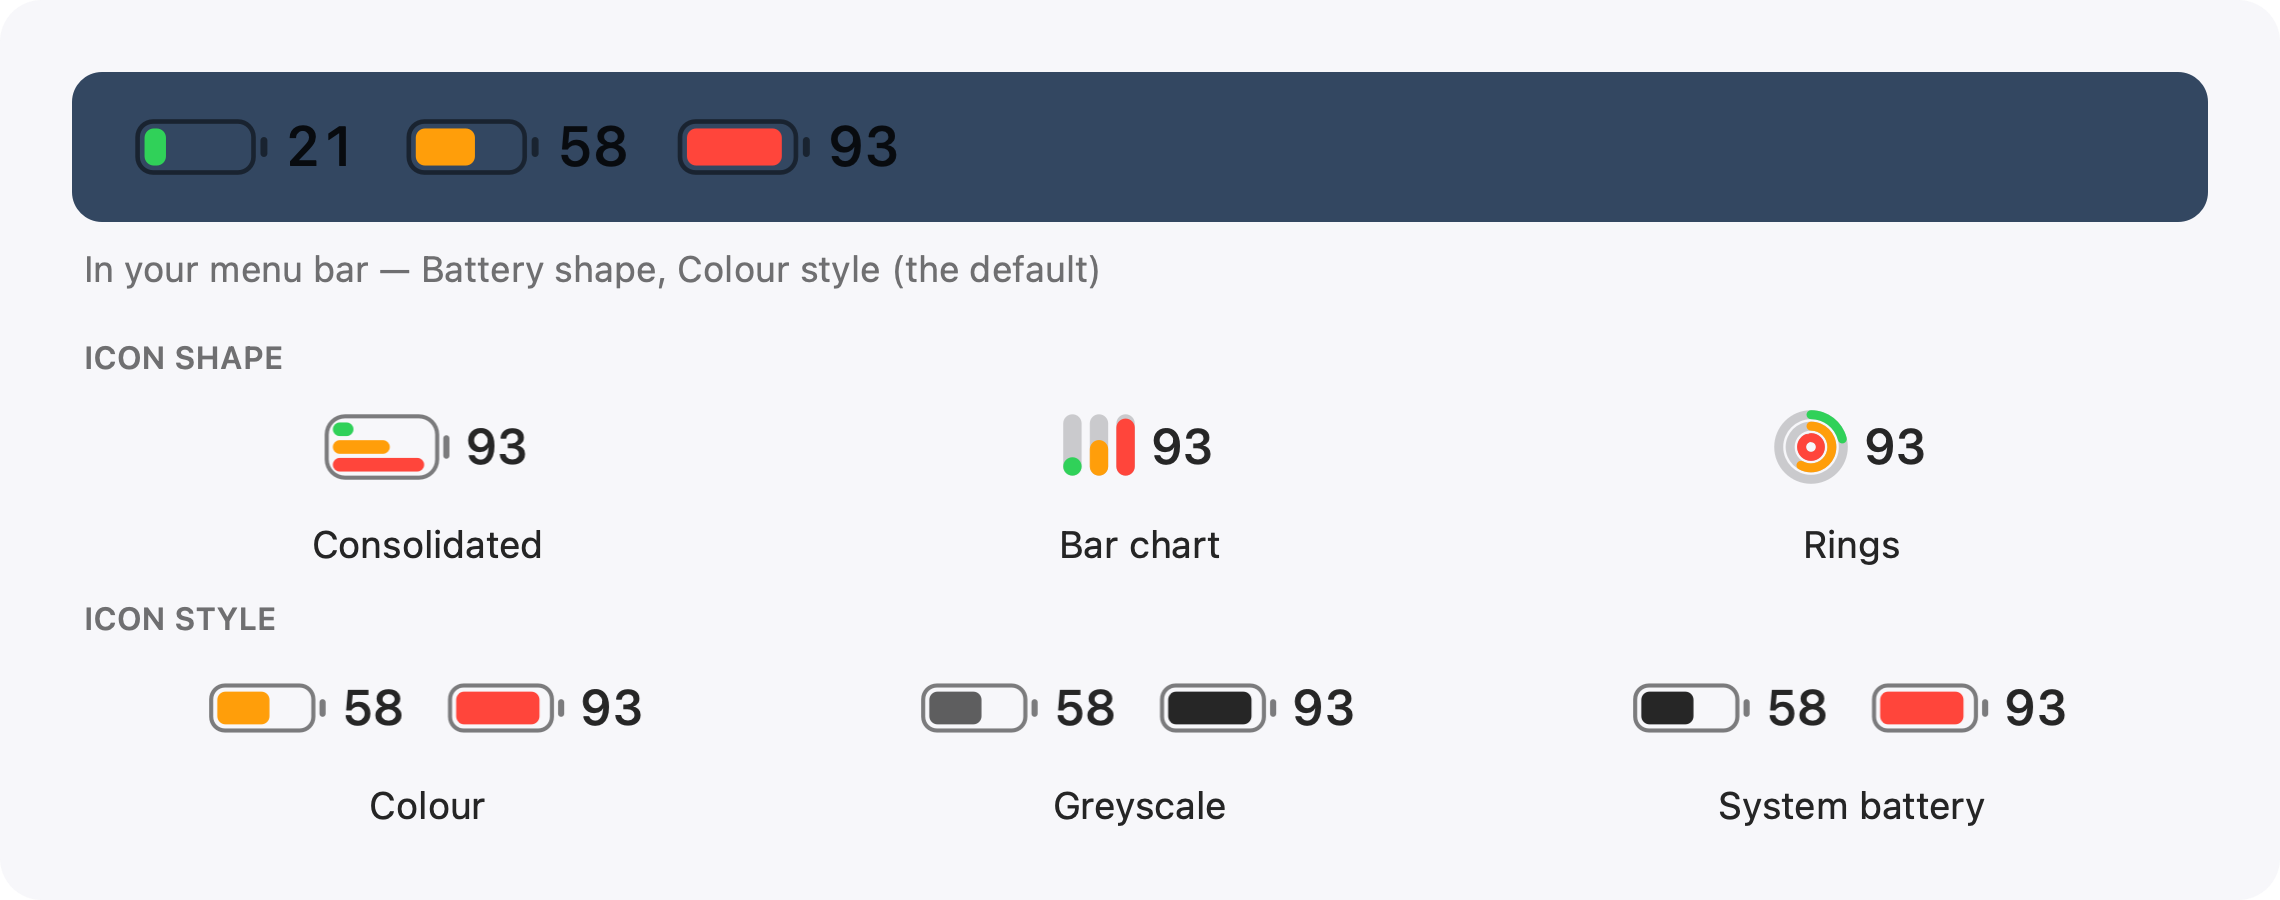
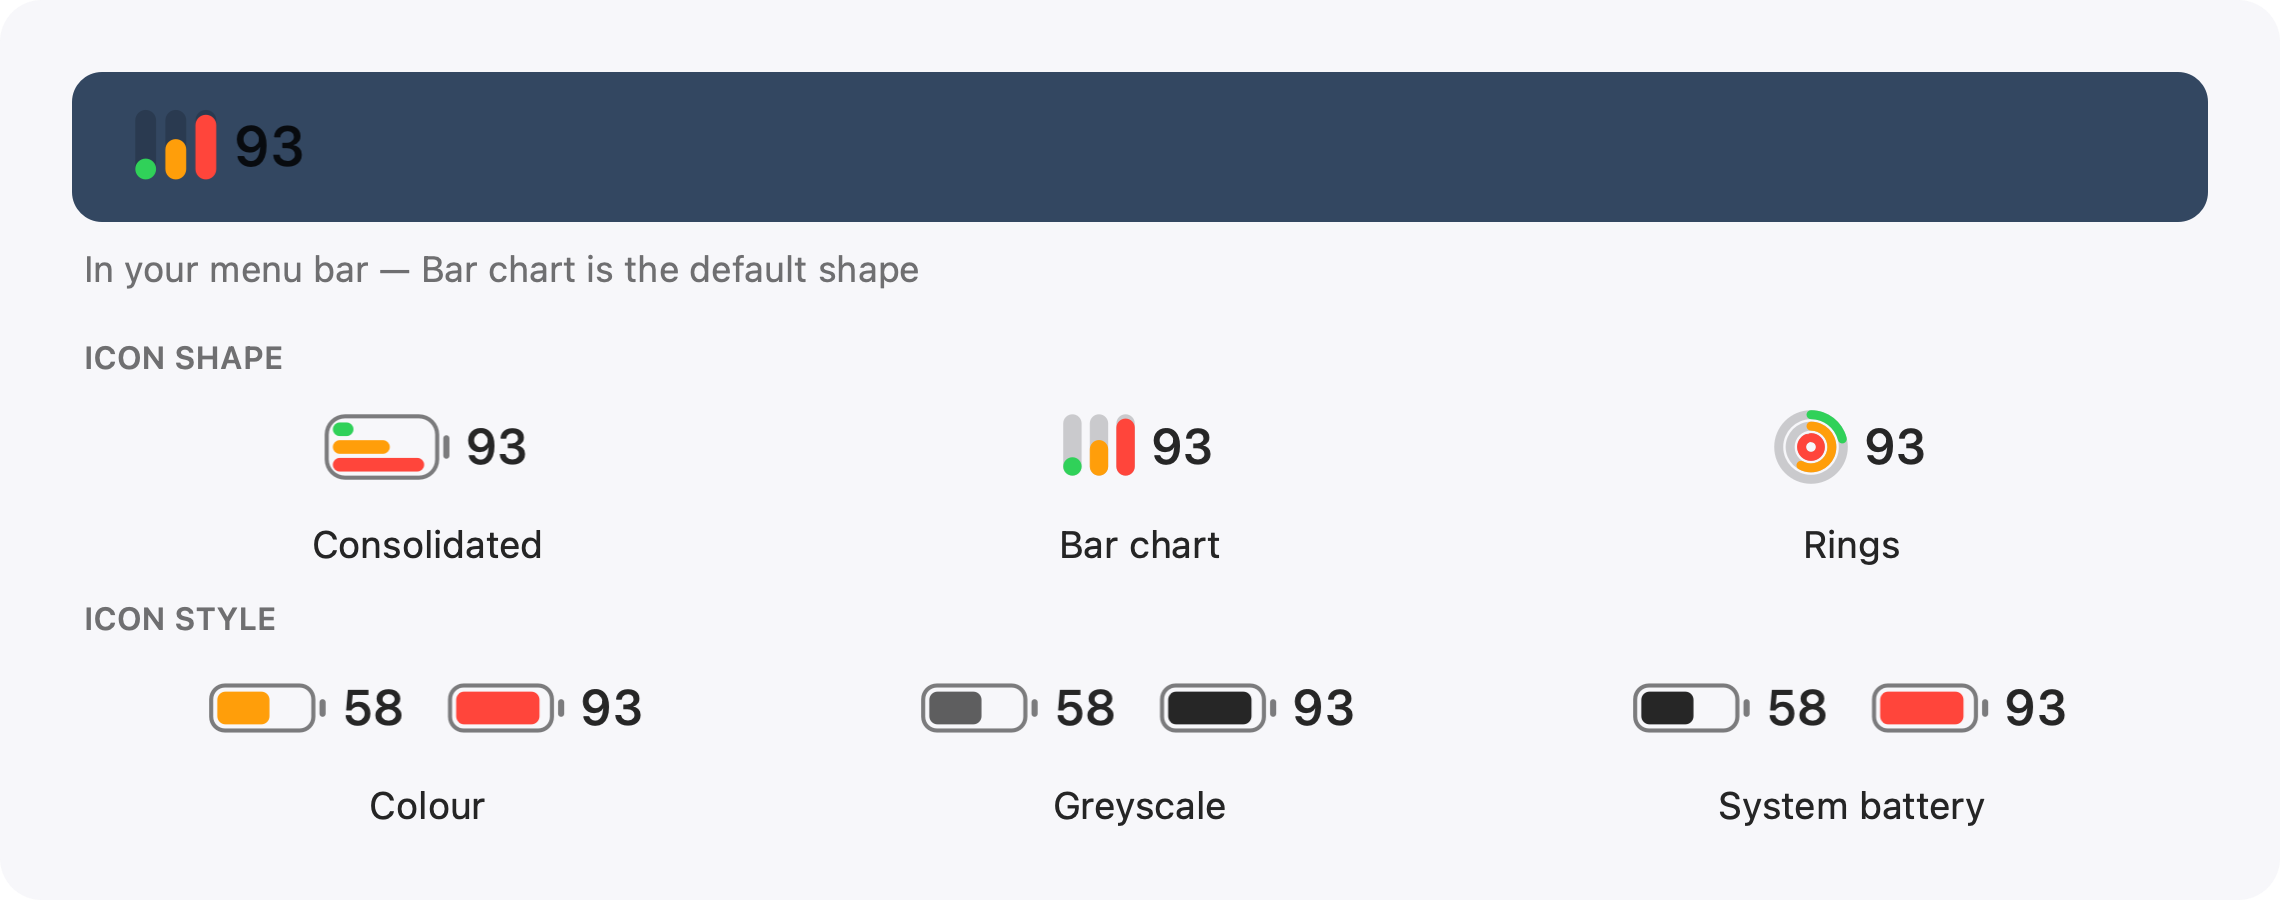
Default to bar chart + greyscale; add number-source picker; fix notification spam
- Default icon shape is now Bar chart and default style Greyscale (the most
  menu-bar-native look); an explicit prior choice is preserved
- New 'Number Shows' submenu picks which limit's percentage sits beside the
  single-glyph icons — highest (default) or a specific gauge; a picked model
  that later disappears falls back to highest
- Notifications: persist the alerted-high state across launches so a limit
  pegged at 100% no longer re-alerts on every relaunch; toggling notifications
  off clears delivered banners
- Re-register the bundle with Launch Services so the app icon resolves
- Bump to 1.4; refresh the README options image and text

Changed region(s): [[0.0623, 0.1244, 0.4048, 0.2178], [0.1868, 0.28, 0.4982, 0.3111]]

diff --git a/UsageMonitor.swift b/UsageMonitor.swift
@@ -698,6 +698,7 @@ final class AppDelegate: NSObject, NSApplicationDelegate, NSMenuDelegate {
     func applicationDidFinishLaunching(_ notification: Notification) {
         NSApp.setActivationPolicy(.accessory)
         hasAdminKey = apiKeyConfigured()
+        notifiedHigh = Set(UserDefaults.standard.stringArray(forKey: "notifiedHigh") ?? [])
         statusMenu.delegate = self
         statusItem.menu = statusMenu
         onboarding.onReady = { [weak self] in self?.poll() }
@@ -775,6 +776,10 @@ final class AppDelegate: NSObject, NSApplicationDelegate, NSMenuDelegate {
         notifyEnabled.toggle()
         if notifyEnabled {
             UNUserNotificationCenter.current().requestAuthorization(options: [.alert, .sound]) { _, _ in }
+        } else {
+            // Turning off clears our stacked banners so they can all be dismissed at once.
+            UNUserNotificationCenter.current().removeAllDeliveredNotifications()
+            notifiedHigh.removeAll(); saveNotified()
         }
     }
 
@@ -792,9 +797,18 @@ final class AppDelegate: NSObject, NSApplicationDelegate, NSMenuDelegate {
         return crossed
     }
 
+    private func saveNotified() {
+        UserDefaults.standard.set(Array(notifiedHigh), forKey: "notifiedHigh")
+    }
+
     func checkNotifications(_ gauges: [Gauge]) {
-        guard notifyEnabled else { notifiedHigh.removeAll(); return }
-        for g in Self.newlyHigh(gauges, notified: &notifiedHigh) {
+        guard notifyEnabled else {
+            if !notifiedHigh.isEmpty { notifiedHigh.removeAll(); saveNotified() }
+            return
+        }
+        let crossed = Self.newlyHigh(gauges, notified: &notifiedHigh)
+        saveNotified()   // persist so a relaunch doesn't re-alert a still-maxed limit
+        for g in crossed {
             let c = UNMutableNotificationContent()
             c.title = "Claude usage — \(g.label)"
             c.body = "You're at \(Int(g.percent))% of your \(g.label.lowercased()) limit."
@@ -815,8 +829,27 @@ final class AppDelegate: NSObject, NSApplicationDelegate, NSMenuDelegate {
     }
 
     var iconShape: IconShape {
-        get { IconShape(rawValue: UserDefaults.standard.string(forKey: "iconShape") ?? "") ?? .battery }
+        get { IconShape(rawValue: UserDefaults.standard.string(forKey: "iconShape") ?? "") ?? .bars }
         set { UserDefaults.standard.set(newValue.rawValue, forKey: "iconShape") }
+    }
+
+    /// Which limit's percent the single-glyph shapes (bars/rings/consolidated)
+    /// show beside the icon. Empty = the highest of all limits.
+    var numberLabel: String {
+        get { UserDefaults.standard.string(forKey: "numberLabel") ?? "" }
+        set { UserDefaults.standard.set(newValue, forKey: "numberLabel") }
+    }
+
+    @objc func pickNumber(_ sender: NSMenuItem) {
+        numberLabel = (sender.representedObject as? String) ?? ""
+        render()
+    }
+
+    func displayPercent(_ gauges: [Gauge]) -> Double {
+        if !numberLabel.isEmpty, let g = gauges.first(where: { $0.label == numberLabel }) {
+            return g.percent
+        }
+        return gauges.map(\.percent).max() ?? 0
     }
 
     @objc func pickShape(_ sender: NSMenuItem) {
@@ -827,7 +860,7 @@ final class AppDelegate: NSObject, NSApplicationDelegate, NSMenuDelegate {
     }
 
     var iconStyle: IconStyle {
-        get { IconStyle(rawValue: UserDefaults.standard.string(forKey: "iconStyle") ?? "") ?? .colour }
+        get { IconStyle(rawValue: UserDefaults.standard.string(forKey: "iconStyle") ?? "") ?? .greyscale }
         set { UserDefaults.standard.set(newValue.rawValue, forKey: "iconStyle") }
     }
 
@@ -921,6 +954,24 @@ final class AppDelegate: NSObject, NSApplicationDelegate, NSMenuDelegate {
         }
         styleItem.submenu = styleMenu
         menu.addItem(styleItem)
+        // Which limit's percent the single-glyph shapes show as the number.
+        let numberItem = NSMenuItem(title: "Number Shows", action: nil, keyEquivalent: "")
+        let numberMenu = NSMenu()
+        let highest = NSMenuItem(title: "Highest", action: #selector(pickNumber(_:)), keyEquivalent: "")
+        highest.target = self
+        highest.representedObject = ""
+        highest.state = numberLabel.isEmpty ? .on : .off
+        numberMenu.addItem(highest)
+        if !gauges.isEmpty { numberMenu.addItem(.separator()) }
+        for g in gauges {
+            let i = NSMenuItem(title: g.label, action: #selector(pickNumber(_:)), keyEquivalent: "")
+            i.target = self
+            i.representedObject = g.label
+            i.state = g.label == numberLabel ? .on : .off
+            numberMenu.addItem(i)
+        }
+        numberItem.submenu = numberMenu
+        menu.addItem(numberItem)
         let notify = item("Notify near a limit (80%)", #selector(toggleNotify), "")
         notify.state = notifyEnabled ? .on : .off
         menu.addItem(notify)
@@ -1052,8 +1103,7 @@ final class AppDelegate: NSObject, NSApplicationDelegate, NSMenuDelegate {
 
     private func peakLabel(_ gauges: [Gauge]) -> NSAttributedString {
         let font = NSFont.monospacedDigitSystemFont(ofSize: 12, weight: .medium)
-        let peak = gauges.map(\.percent).max() ?? 0
-        return NSAttributedString(string: "\(Int(peak))",
+        return NSAttributedString(string: "\(Int(displayPercent(gauges)))",
                                   attributes: [.font: font, .foregroundColor: NSColor.labelColor])
     }
 
@@ -1128,10 +1178,7 @@ final class AppDelegate: NSObject, NSApplicationDelegate, NSMenuDelegate {
     func consolidatedImage(_ gauges: [Gauge]) -> NSImage {
         let h: CGFloat = 22, bodyW: CGFloat = 28, bodyH: CGFloat = 16
         let capExt: CGFloat = 2.5, gap: CGFloat = 4, pad: CGFloat = 2
-        let font = NSFont.monospacedDigitSystemFont(ofSize: 12, weight: .medium)
-        let peak = gauges.map(\.percent).max() ?? 0
-        let s = NSAttributedString(string: "\(Int(peak))",
-                                   attributes: [.font: font, .foregroundColor: NSColor.labelColor])
+        let s = peakLabel(gauges)
         let total = pad * 2 + bodyW + capExt + gap + ceil(s.size().width)
 
         return NSImage(size: NSSize(width: total, height: h), flipped: false) { [weak self] _ in

diff --git a/CHANGELOG.md b/CHANGELOG.md
@@ -3,6 +3,17 @@
 All notable changes to Usage Monitor are recorded here. Versions follow the
 `CFBundleShortVersionString` in `build.sh`.
 
+## 1.4
+
+- **Defaults changed** to **Bar chart** shape + **Greyscale** style — the most
+  menu-bar-native look. (Your existing choice is preserved if you'd set one.)
+- **Number Shows** menu — pick which limit's percentage appears beside the icon
+  (highest by default, or a specific one like Session or a model).
+- **Notifications no longer repeat** across relaunches: the "already alerted"
+  state is persisted, so a limit stuck at 100% won't re-alert every launch.
+  Turning notifications off now also clears any stacked banners.
+- App icon re-registered so it resolves for notifications and Finder.
+
 ## 1.3
 
 - **App icon.** A proper icon — a battery gauge with a green→amber→red charge on

diff --git a/README.md b/README.md
@@ -18,11 +18,13 @@ breakdown with reset times, a **Refresh now** button, and **Open at Login**.
 
 The icon is configurable from that menu:
 
-- **Icon Shape** — **Battery** (default), **Bar chart**, or **Rings**.
-- **Icon Style** — **Colour** (traffic-light), **Greyscale** (level as
-  lightness), or **System Battery** (monochrome until the red zone).
+- **Icon Shape** — **Bar chart** (default), **Battery**, or **Rings**.
+- **Icon Style** — **Greyscale** (default; level as lightness), **Colour**
+  (traffic-light), or **System Battery** (monochrome until the red zone).
 - **Consolidated Icon** — for the battery shape, stacks all three gauges in one
-  glyph with the highest percentage beside it, to save menu-bar space.
+  glyph, to save menu-bar space.
+- **Number Shows** — choose which limit's percentage sits beside the icon: the
+  highest by default, or a specific one (Session, All models, or a model).
 
 Each gauge's number is the percent used; the shapes and styles above all show
 the same three example gauges (21% / 58% / 93%).